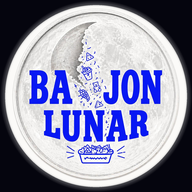
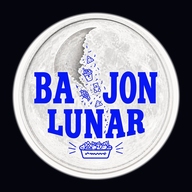
update

diff --git a/firebase-messaging-sw.js b/firebase-messaging-sw.js
@@ -1,10 +1,8 @@
 // ════════════════════════════════════════════════════════════
 //  firebase-messaging-sw.js  —  Bajón Lunar Admin
-//  Service Worker para notificaciones push vía Firebase FCM
-//  INSTRUCCIONES:
-//    1. Coloca este archivo en la RAÍZ de tu servidor (mismo
-//       nivel que tu HTML principal), no en una subcarpeta.
-//    2. Reemplaza los valores de firebaseConfig con los tuyos.
+//  COLOCA ESTE ARCHIVO EN LA RAÍZ DE TU REPO DE GITHUB
+//  (mismo nivel que index.html / admin-panel.html)
+//  URL: ingalejandrofh01-boop.github.io/Bajon-Lunar/
 // ════════════════════════════════════════════════════════════
 
 importScripts('https://www.gstatic.com/firebasejs/10.12.2/firebase-app-compat.js');
@@ -35,7 +33,7 @@ messaging.onBackgroundMessage((payload) => {
      (data.total  ? ' · $' + parseFloat(data.total).toLocaleString('es-MX', { minimumFractionDigits: 2 }) : ''));
 
   // Ícono embebido del logo Bajón Lunar
-  const ICON = 'icon-192.png';
+  const ICON = 'https://ingalejandrofh01-boop.github.io/Bajon-Lunar/icon-192.png';
 
   return self.registration.showNotification(title, {
     body,
@@ -58,7 +56,7 @@ self.addEventListener('notificationclick', (event) => {
 
   if (event.action === 'ignorar') return;
 
-  const urlToOpen = event.notification.data?.url || '/';
+  const urlToOpen = event.notification.data?.url || 'https://ingalejandrofh01-boop.github.io/Bajon-Lunar/';
 
   event.waitUntil(
     clients.matchAll({ type: 'window', includeUncontrolled: true }).then((clientList) => {